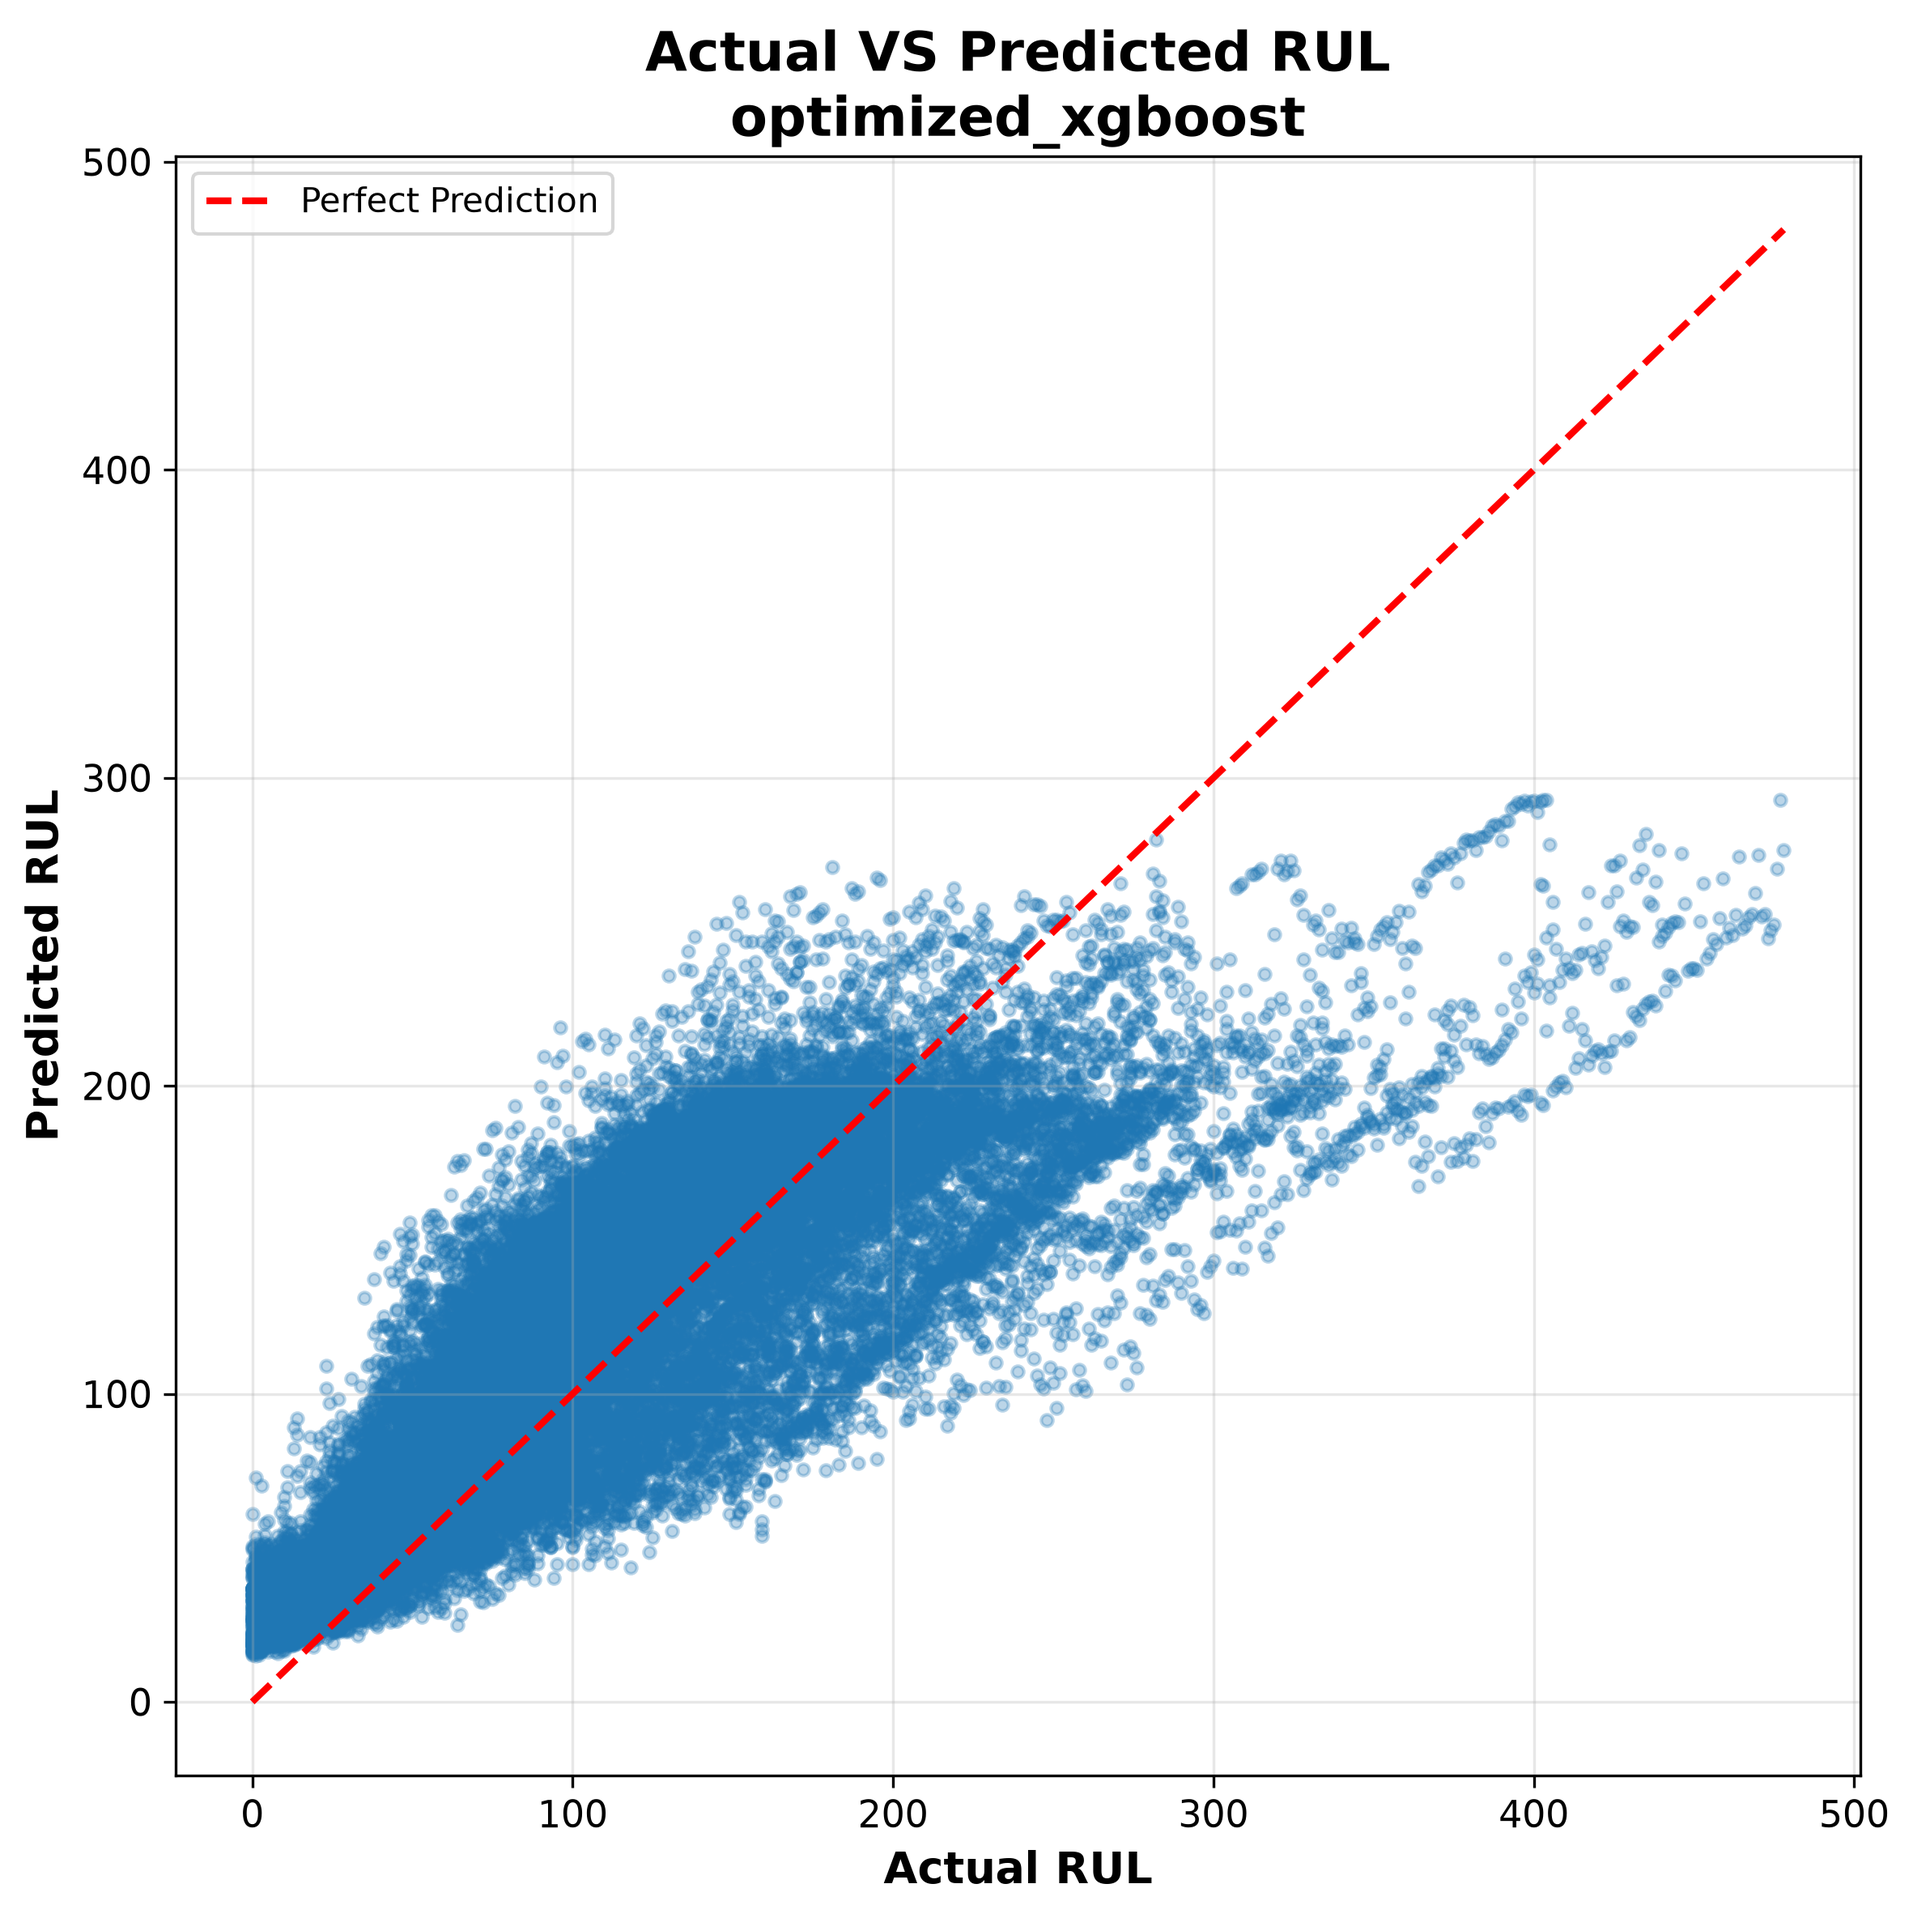
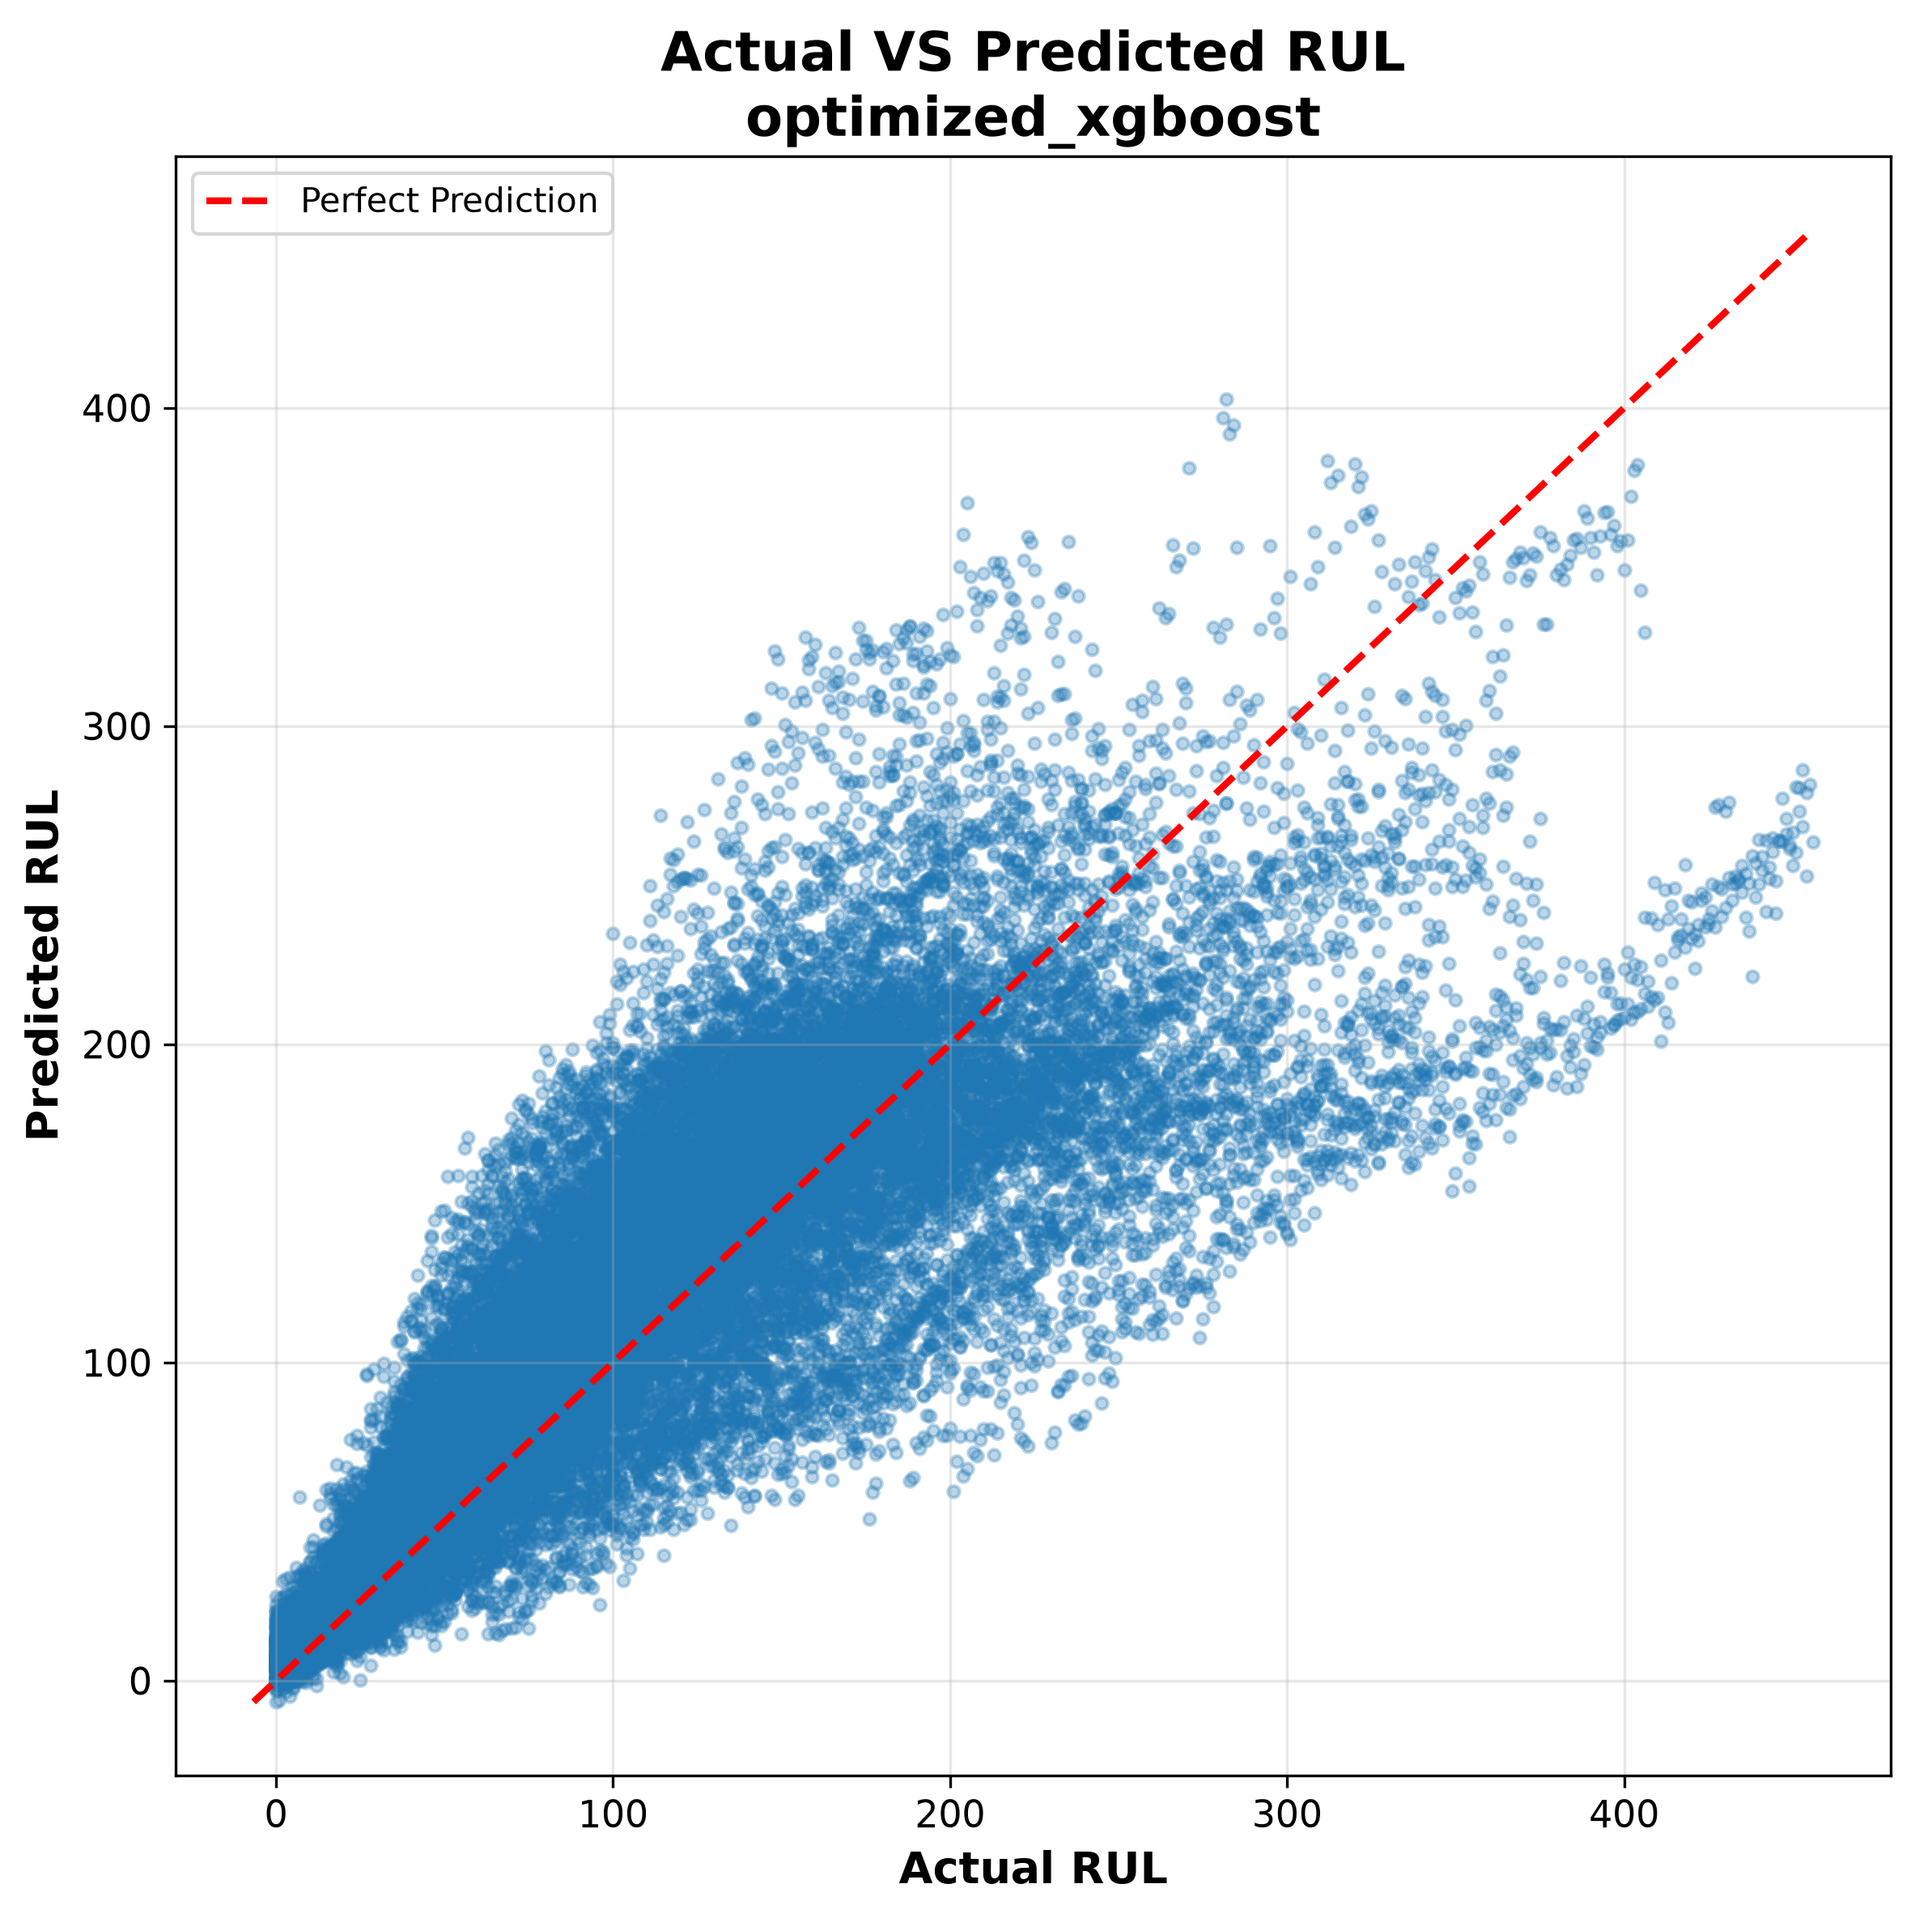
modified Version

diff --git a/main.py b/main.py
@@ -22,6 +22,7 @@ from src.models.ablation import (
 def run_experiment(
     df,
     include_cycle: bool,
+    models_to_run: list[str],
 ) -> dict:
 
     experiment_name = (
@@ -51,19 +52,10 @@ def run_experiment(
         y_train=y_train,
         y_test=y_test,
         train_groups=train_groups,
-        include_optimized_xgboost=False,
-    )
-
-    comparison_df = compare_models(
-        results=results
-    )
-
-    print_model_comparison(
-        comparison_df=comparison_df
+        models_to_run=models_to_run,
     )
 
     return results
-
 
 def main():
 
@@ -73,14 +65,22 @@ def main():
 
     run_eda(df)
 
+    baseline_models = [
+        "linear_regression",
+        "random_forest",
+        "xgboost",
+    ]
+
     results_with_cycle = run_experiment(
         df=df,
         include_cycle=True,
+        models_to_run=baseline_models,
     )
 
     results_without_cycle = run_experiment(
         df=df,
         include_cycle=False,
+        models_to_run=baseline_models,
     )
 
     ablation_df = create_ablation_report(
@@ -94,6 +94,27 @@ def main():
 
     plot_ablation_comparison(
         ablation_df=ablation_df
+    )
+
+    optimized_results = run_experiment(
+        df=df,
+        include_cycle=True,
+        models_to_run=[
+            "optimized_xgboost",
+        ],
+    )
+
+    optimized_comparison = compare_models(
+        results=optimized_results
+    )
+
+    print("\n")
+    print("=" * 70)
+    print("OPTIMIZED XGBOOST RESULTS")
+    print("=" * 70)
+
+    print_model_comparison(
+        comparison_df=optimized_comparison
     )
 
 

diff --git a/src/models/workflow.py b/src/models/workflow.py
@@ -190,36 +190,43 @@ def run_all_models(
     y_train: pd.Series,
     y_test: pd.Series,
     train_groups: pd.Series,
-    include_optimized_xgboost: bool = False,
+    models_to_run: list[str] | None = None,
 ) -> dict:
 
-    logger.info("Running baseline models.")
+    if models_to_run is None:
+        models_to_run = [
+            "linear_regression",
+            "random_forest",
+            "xgboost",
+        ]
 
-    results = {
-        "Linear Regression": run_linear_regression(
+    results = {}
+
+    if "linear_regression" in models_to_run:
+        results["Linear Regression"] = run_linear_regression(
             x_train=x_train,
             x_test=x_test,
             y_train=y_train,
             y_test=y_test,
-        ),
+        )
 
-        "Random Forest": run_random_forest(
+    if "random_forest" in models_to_run:
+        results["Random Forest"] = run_random_forest(
             x_train=x_train,
             x_test=x_test,
             y_train=y_train,
             y_test=y_test,
-        ),
+        )
 
-        "XGBoost": run_xgboost(
+    if "xgboost" in models_to_run:
+        results["XGBoost"] = run_xgboost(
             x_train=x_train,
             x_test=x_test,
             y_train=y_train,
             y_test=y_test,
-        ),
-    }
+        )
 
-    if include_optimized_xgboost:
-
+    if "optimized_xgboost" in models_to_run:
         results["Optimized XGBoost"] = run_optimized_xgboost(
             x_train=x_train,
             x_test=x_test,
